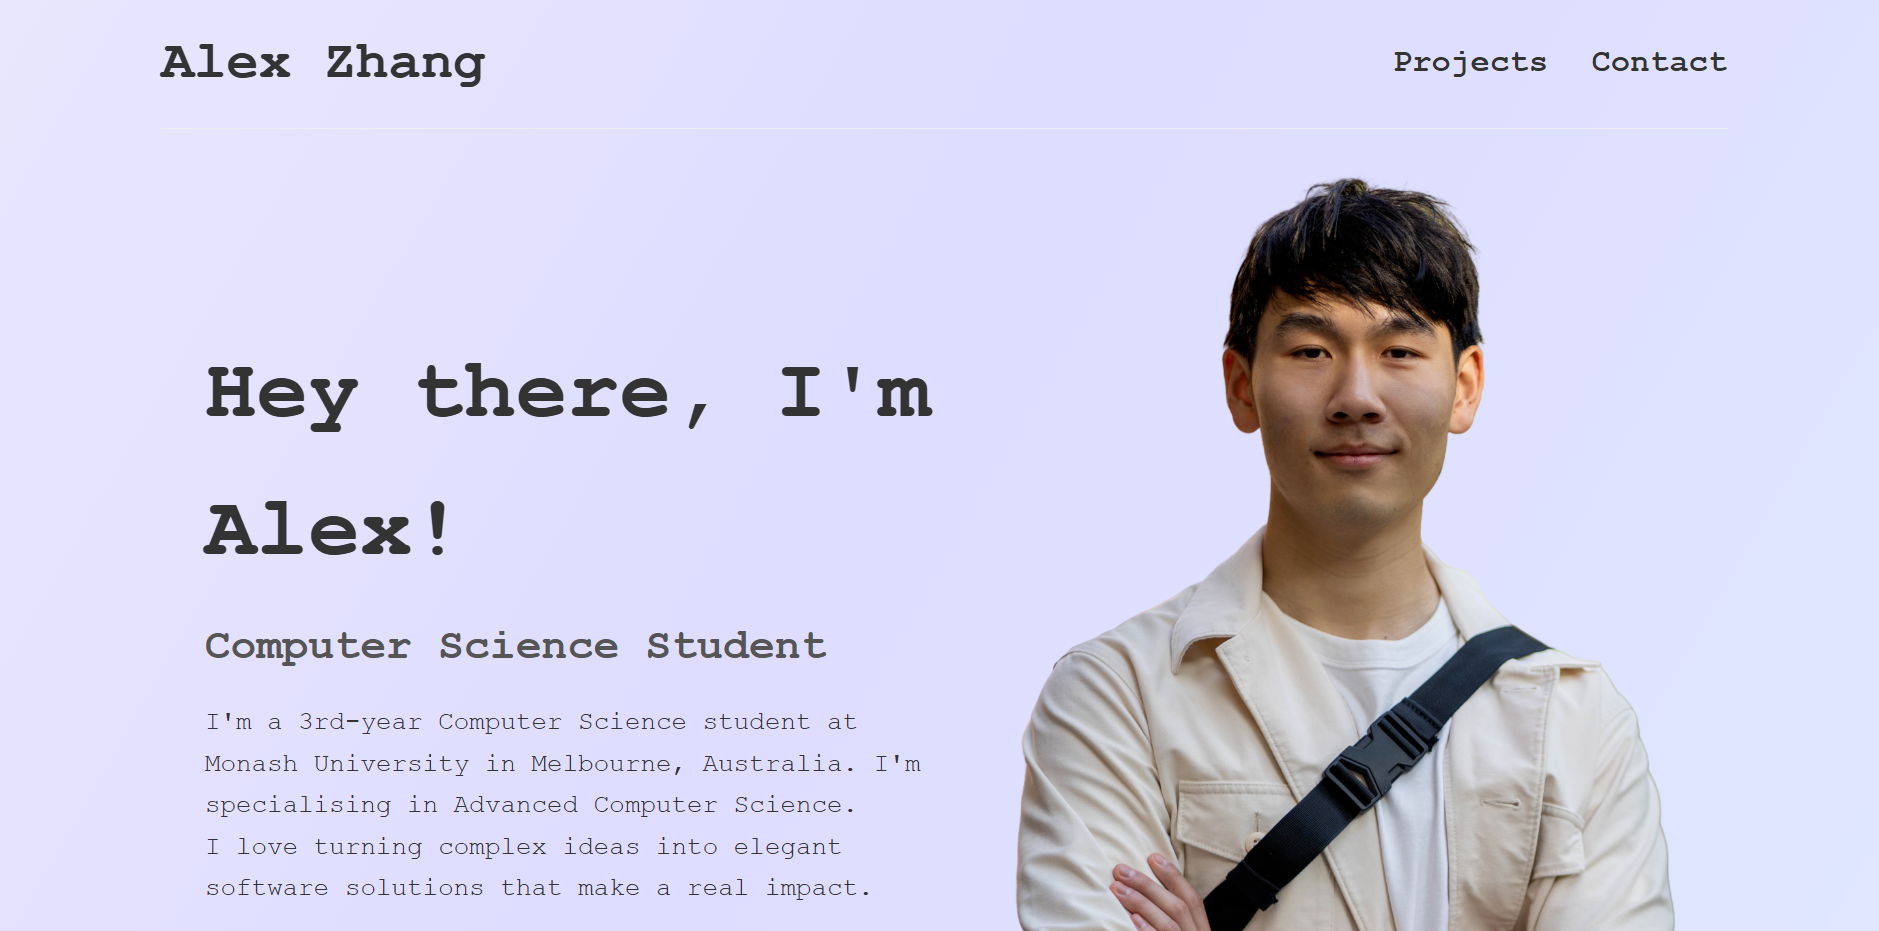
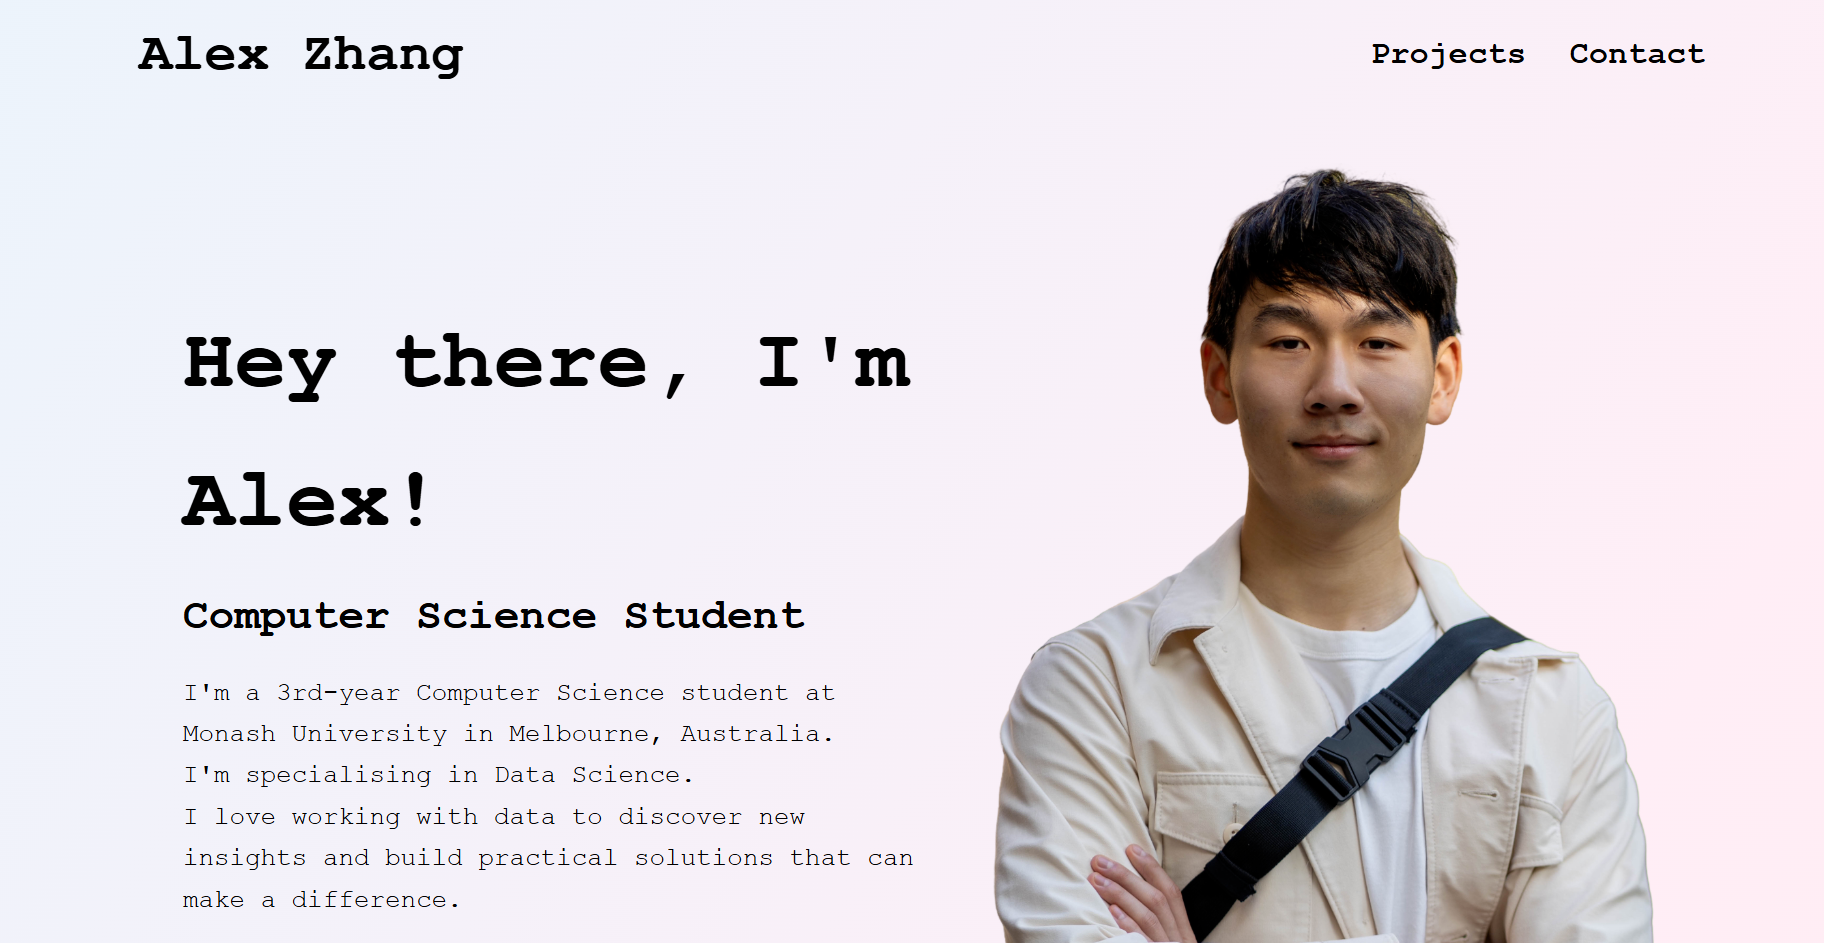
Edit

diff --git a/PortfolioPage/index.css b/PortfolioPage/index.css
@@ -1,6 +1,3 @@
-:root {
-	--accent: #47e6e8;
-}
 /* Basic Reset & Body Styles */
 * {
 	box-sizing: border-box; /* Include padding and border in element's total width/height */
@@ -12,29 +9,24 @@ html {
 	scroll-behavior: smooth;
 }
 
-body {
-	font-family: 'Courier New', Courier, monospace;
-	line-height: 1.6;
-	color: #333;
-	background-color: white;
-}
-
 .container {
+	font-family: 'Courier New', Courier, monospace;
+	line-height: 1.6; /* Affects the height between lines */
 	max-width: 1200px; /* Max width of the content */
-	margin: 0 auto; /* Center the container */
-	padding: 0 20px; /* Add some padding on the sides */
+	margin: 0 auto; /* Shorthand property. 0px top and bottom. auto distributes the remaining horizontal space evenly left and right*/
+	padding: 0 20px; /* Shorthand for 0px on top and bottom, 20px left and right*/
 }
 
-/* 1⃣  Keyframes: slide the gradient left → right → left */
+/* 1⃣  Keyframes: slide the gradient left → right → left. Creates a smooth, looping left to right animation */
 @keyframes pastel-pan {
 	0% {
-		background-position: 0% 50%;
+		background-position: 0% 50%; /* Show left */
 	}
 	50% {
-		background-position: 100% 50%;
+		background-position: 100% 50%; /* Show right */
 	}
 	100% {
-		background-position: 0% 50%;
+		background-position: 0% 50%; /* Back to left */
 	}
 }
 
@@ -42,7 +34,7 @@ body {
 .bg-pastel-flow {
 	/* whisper-light colours */
 	background: linear-gradient(
-		120deg,
+		120deg, /* set a diagonal gradient from bottom left to top right*/
 		#fdfbfb 0%,
 		/* near-white */ #dedcff 25%,
 		/* hint of lavender */ #e1f7ff 50%,
@@ -50,19 +42,20 @@ body {
 		/* blush pink */ #ffe5e5 100%
 	); /* back to near-white */
 
-	/* make the gradient large so the shift is subtle */
+	/* make the area large so the shift is subtle */
 	background-size: 400% 400%;
 
 	/* slow, gentle drift */
+	/* 18 seconds to complete cycle, smooth, loops forever */
 	animation: pastel-pan 18s ease-in-out infinite;
 }
 
 /* Header Section */
 .header {
-	display: flex; /* Use flexbox for layout */
+	display: flex; /* Use flexbox for layout which makes it easier to arrange and align items in a container. Useful for creating flexible and dynamic layouts */
 	justify-content: space-between; /* Push name left, nav right */
 	align-items: center; /* Vertically align items */
-	padding: 1rem 0; /* Add padding top/bottom */
+	padding: 1rem 0; /* Add padding top/bottom. rem stands for root em and it is a relative unit to the html element's font size */
 	gap: 2rem; /* Make sure that nav does't get too close to h1 when screen becomes narrow */
 }
 
@@ -78,30 +71,28 @@ body {
 
 .nav a {
 	text-decoration: none;
-	color: #333;
+	color: black;
 	font-weight: bold;
 	font-size: 1.5rem;
 }
 
 .nav a:hover {
-	color: #007bff; /* Highlight color on hover */
+	color: #007bff; /* Using a hexadecimal colour code*/
 }
 
 /* Hero Section */
 .hero {
-	position: relative;
 	display: flex; /* Use flexbox */
 	align-items: center; /* Vertically align content and image */
 	justify-content: center;
 	gap: 2rem; /* Space between content and image */
 	flex-wrap: wrap; /* Allow items to wrap on smaller screens if needed */
-	min-height: 80vh;
+	min-height: 80vh; /* Makes the height at least 80% of the height of the screen*/
 	margin: 32px;
 }
 
 .hero-content {
-	flex: 1;
-	min-width: 500px; /* Prevent content from getting too squished */
+	flex: 1; /* Shorthand for grow: 1, shrink: 1, basis: 0% */
 	font-size: 1.3rem;
 }
 
@@ -112,22 +103,21 @@ body {
 
 .hero-content h3 {
 	font-size: 2rem;
-	color: #555;
 	margin-bottom: 1rem;
 }
 
 .hero-content p {
-	margin-bottom: 1.5rem;
 	font-size: 1.2rem;
+	margin-bottom: 1.5rem;
 }
 
 .hero-button {
 	display: inline-block; /* Make sure the button respects the padding/margins around it */
 	background-color: #007bff;
-	color: #fff;
+	color: white;
 	padding: 10px 20px;
-	text-decoration: none;
-	border-radius: 5px;
+	text-decoration: none; /* Get rid of the underline */
+	border-radius: 5px; /* Round the edges a bit*/
 	font-weight: bold;
 }
 
@@ -137,7 +127,7 @@ body {
 
 .hero-image {
 	width: 500px;
-	height: auto;
+	height: auto; /* Automatically calculate the height so original aspect ratio is maintained*/
 }
 
 /* Projects Section */
@@ -159,7 +149,7 @@ body {
 }
 
 .project-item {
-	background: #fff;
+	background-color: white;
 	border-radius: 8px;
 	display: flex;
 	flex-direction: column;
@@ -170,7 +160,7 @@ body {
 	height: 160px;
 	width: auto;
 	object-fit: cover; /* Fill container completely, crop image if needed*/
-	border-top-left-radius: 8px;
+	border-top-left-radius: 8px; /* Match the rounded edges of the card */
 	border-top-right-radius: 8px;
 }
 
@@ -195,23 +185,23 @@ body {
 	margin-top: auto;
 }
 
-.project-btn {
+.project-button {
 	display: flex;
 	align-items: center;
 	padding: 8px 12px;
 	background-color: #5c67f2;
-	color: #ffffff;
+	color: white;
 	text-decoration: none;
 	border-radius: 4px;
 	font-size: 0.9rem;
 	font-weight: bold;
 }
 
-.project-btn i {
+.project-button i {
 	margin-right: 5px;
 }
 
-.project-btn:hover {
+.project-button:hover {
 	background-color: #3d42a1;
 }
 
@@ -227,7 +217,6 @@ body {
 
 .contact p {
 	margin: 3rem;
-	color: #555;
 	font-size: 1.25rem;
 }
 
@@ -238,39 +227,39 @@ body {
 	flex-wrap: wrap; /* Allow buttons to wrap if needed */
 }
 
-.contact-btn {
+.contact-button {
 	display: flex;
 	align-items: center;
 	padding: 12px 25px;
-	color: white;
 	text-decoration: none;
 	border-radius: 5px;
 	font-size: 1rem;
 	font-weight: bold;
+	color: white;
 }
 
-.contact-btn i {
+.contact-button i {
 	margin-right: 8px; /* Push icon away from the text */
 }
 
-/* Specific styles for different contact buttons if needed */
-.contact-btn.email {
+/* Specific styles for different contact buttons */
+.contact-button.email {
 	background-color: #007bff; /* Blue for email */
 }
-.contact-btn.email:hover {
+.contact-button.email:hover {
 	background-color: #0056b3;
 }
 
-.contact-btn.linkedin {
+.contact-button.linkedin {
 	background-color: #0e76a8; /* LinkedIn blue */
 }
-.contact-btn.linkedin:hover {
+.contact-button.linkedin:hover {
 	background-color: #0b5f8a;
 }
-.contact-btn.github {
+.contact-button.github {
 	background-color: #333; /* GitHub dark */
 }
-.contact-btn.github:hover {
+.contact-button.github:hover {
 	background-color: #222;
 }
 

diff --git a/PortfolioPage/index.html b/PortfolioPage/index.html
@@ -25,8 +25,8 @@
             <h1>Hey there, I'm Alex!</h1>
             <h3>Computer Science Student</h3>
             <p>I'm a 3rd-year Computer Science student at Monash University in Melbourne, Australia. <br>
-               I'm specialising in Advanced Computer Science. <br>
-               I love turning complex ideas into elegant software solutions that make a real impact. </p>
+               I'm specialising in Data Science. <br>
+               I love working with data to discover new insights and build practical solutions that can make a difference. </p>
             <a href="#projects" class="hero-button">See My Works</a>
           </div>
           <img src="hero.png" alt="Avatar placeholder image" class="hero-image">
@@ -38,16 +38,16 @@
             <div class="project-item">
               <img class="project-image" src="project-photo.png" alt="Project Screenshot">
               <div class="project-content">
-                <h3>[Project 1]</h3>
+                <h3>[Project Name]</h3>
                 <div class="project-text">
                   Lorem ipsum dolor sit amet, consectetur adipiscing elit. <br>
                   <strong>Tech:</strong> HTML, CSS, JavaScript
                 </div>
                 <div class="project-links">
-                  <a href="#" class="project-btn">
+                  <a href="#" target="_blank" rel="noopener noreferrer" class="project-button">
                     <i class="fab fa-github"></i> View Source
                   </a>
-                  <a href="#" class="project-btn">
+                  <a href="#" target="_blank" rel="noopener noreferrer" class="project-button">
                     <i class="fas fa-external-link-alt"></i> Live Demo
                   </a>
                 </div>
@@ -55,18 +55,18 @@
             </div>
 
             <div class="project-item">
-              <img class="project-image" src="project-photo-2.png" alt="Project Screenshot">
+              <img class="project-image" src="project-photo.png" alt="Project Screenshot">
               <div class="project-content">
-                <h3>[Project 2]</h3>
+                <h3>[Project Name]</h3>
                 <div class="project-text">
                   Lorem ipsum dolor sit amet, consectetur adipiscing elit. <br>
                   <strong>Tech:</strong> HTML, CSS, JavaScript
                 </div>
                 <div class="project-links">
-                  <a href="#" class="project-btn">
+                  <a href="#" target="_blank" rel="noopener noreferrer" class="project-button">
                     <i class="fab fa-github"></i> View Source
                   </a>
-                  <a href="#" class="project-btn">
+                  <a href="#" target="_blank" rel="noopener noreferrer" class="project-button">
                     <i class="fas fa-external-link-alt"></i> Live Demo
                   </a>
                 </div>
@@ -74,18 +74,18 @@
             </div>
 
             <div class="project-item">
-              <img class="project-image" src="project-photo-3.png" alt="Project Screenshot">
+              <img class="project-image" src="project-photo.png" alt="Project Screenshot">
               <div class="project-content">
-                <h3>[Project 3]</h3>
+                <h3>[Project Name]</h3>
                 <div class="project-text">
                   Lorem ipsum dolor sit amet, consectetur adipiscing elit. <br>
                   <strong>Tech:</strong> HTML, CSS, JavaScript
                 </div>
                 <div class="project-links">
-                  <a href="#" class="project-btn">
+                  <a href="#" target="_blank" rel="noopener noreferrer" class="project-button">
                     <i class="fab fa-github"></i> View Source
                   </a>
-                  <a href="#" class="project-btn">
+                  <a href="#" target="_blank" rel="noopener noreferrer" class="project-button">
                     <i class="fas fa-external-link-alt"></i> Live Demo
                   </a>
                 </div>
@@ -97,22 +97,22 @@
           <h2>Contact me!</h2>
           <p>Feel free to reach out for projects, collaborations, or just to say hi 👋</p>
           <div class="contact-buttons">
-            <a href="mailto:youremail@example.com" class="contact-btn email">
+            <a href="mailto:youremail@example.com" class="contact-button email">
               <i class="fas fa-envelope"></i> Email Me
             </a>
-            <a href="https://linkedin.com" target="_blank" rel="noopener noreferrer" class="contact-btn linkedin">
+            <a href="https://linkedin.com" target="_blank" rel="noopener noreferrer" class="contact-button linkedin">
               <i class="fab fa-linkedin"></i> LinkedIn
             </a>
-            <a href="https://github.com" target="_blank" rel="noopener noreferrer" class="contact-btn github">
+            <a href="https://github.com" target="_blank" rel="noopener noreferrer" class="contact-button github">
               <i class="fab fa-github"></i> GitHub
             </a>
           </div>
         </section>
       </main>
 
-        <footer>
-            Made by Noah Dai © 2025 
-        </footer>
+      <footer>
+          Made by Noah Dai © 2025 
+      </footer>
     </div>
 </body>
 </html>
